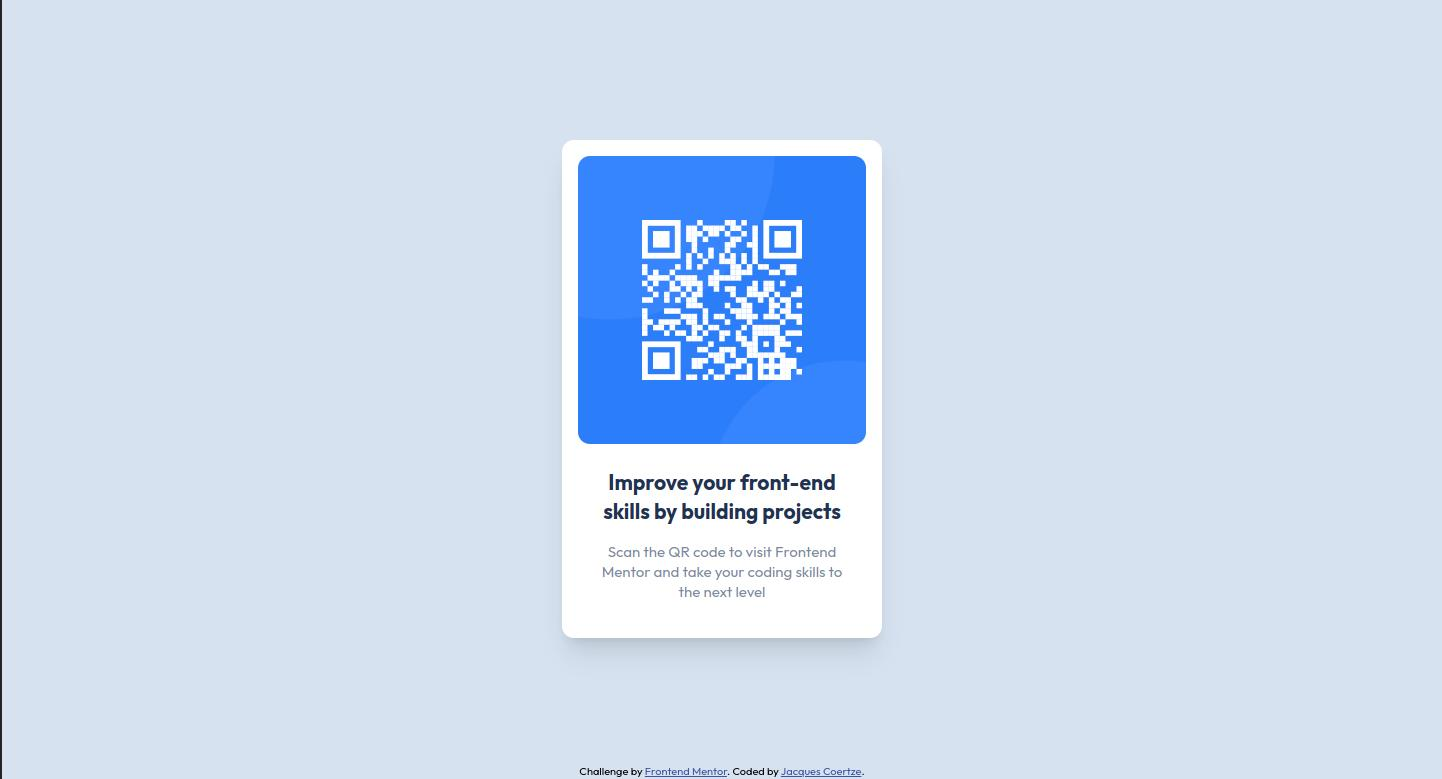
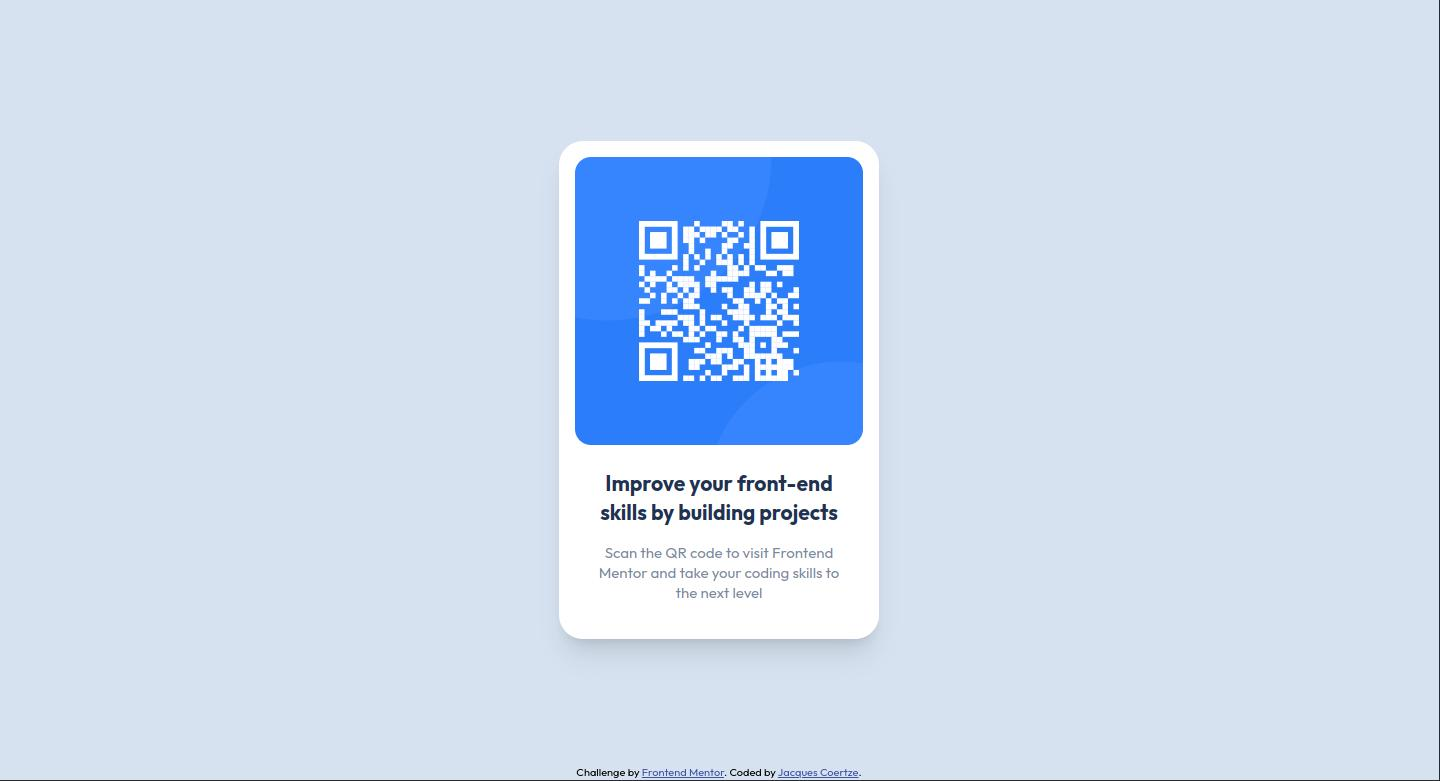
fix: Corrected rounded corners

diff --git a/index.html b/index.html
@@ -13,9 +13,9 @@
 </head>
 
 <body class="grid h-screen place-content-center bg-lightgray font-sans">
-  <main class="mx-auto min-w-[320px] max-w-[320px] rounded-xl bg-white shadow-xl">
+  <main class="mx-auto min-w-[320px] max-w-[320px] rounded-3xl bg-white shadow-xl">
     <div class="p-4">
-      <img src="/image-qr-code.png" alt="QR Code" class="rounded-xl" />
+      <img src="/image-qr-code.png" alt="QR Code" class="rounded-2xl" />
     </div>
     <div class="px-7 pt-2 pb-9 text-center">
       <h1 class="text-[21px] font-bold leading-snug text-darkblue">
